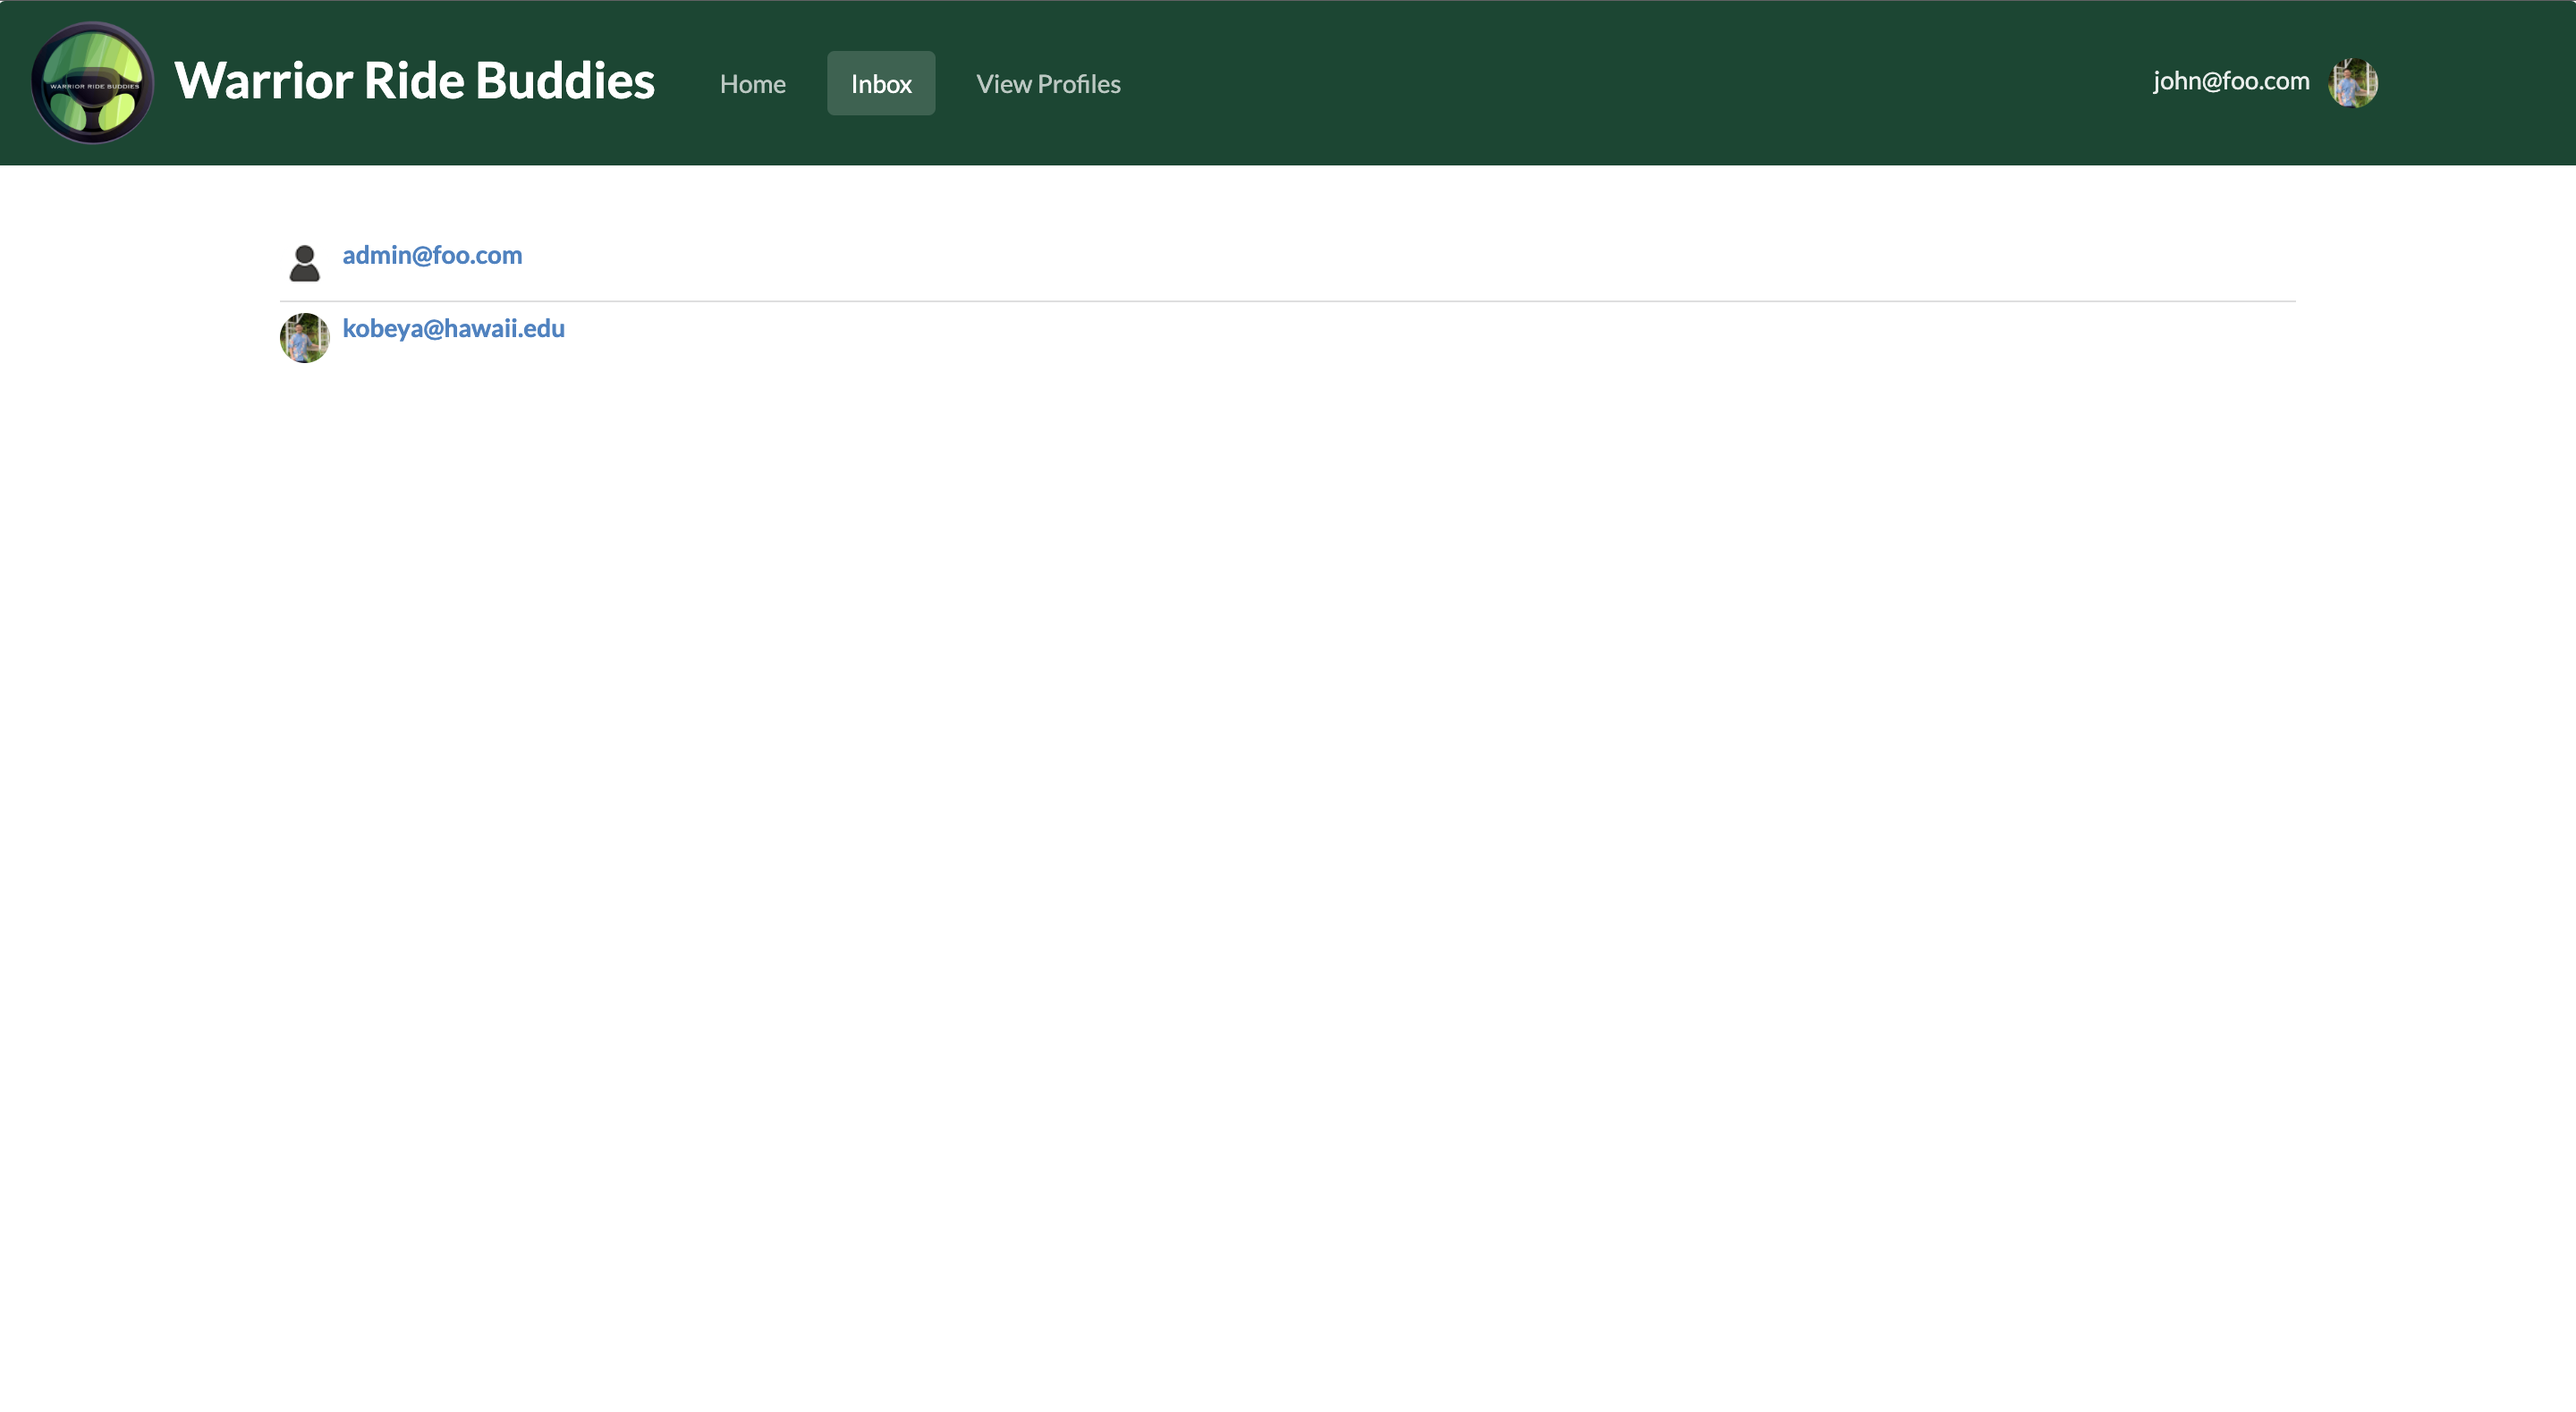
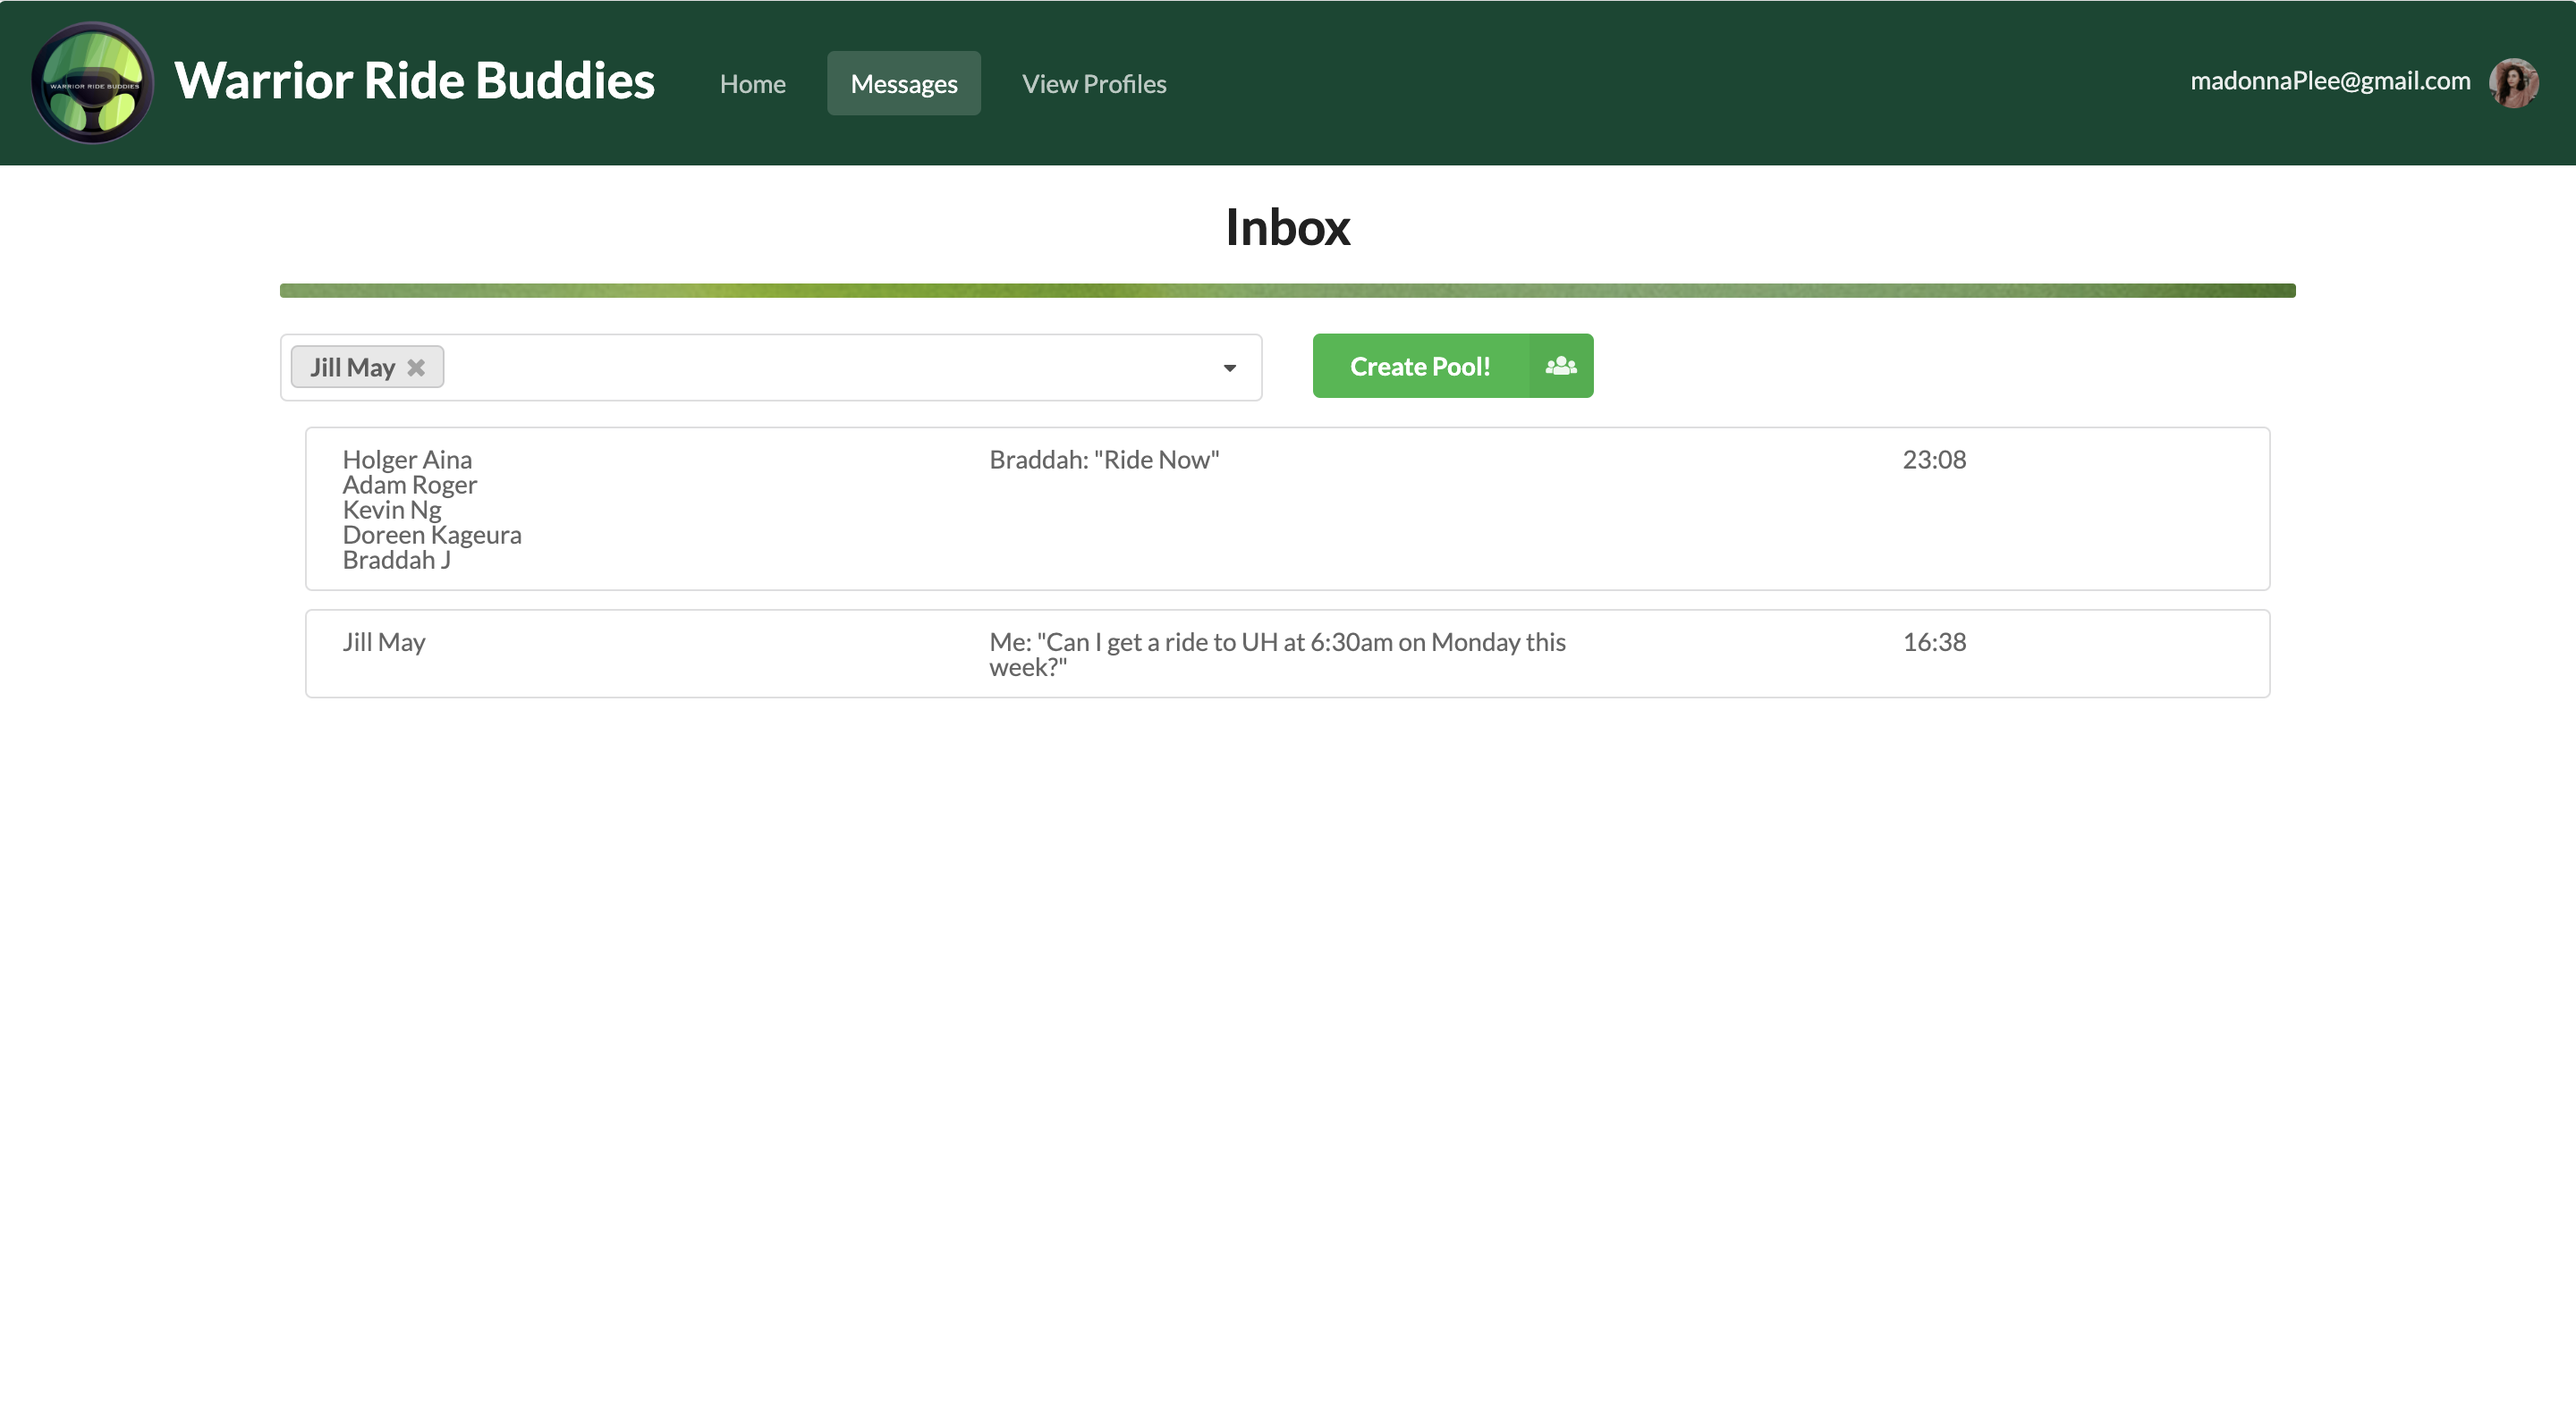
Add m3 pictures and summaries

diff --git a/index.md b/index.md
@@ -41,16 +41,27 @@ On the landing page, the user can gain more insight about how the application wo
 Using the filters on the left, users can search for other users (driver/riders) that are suitable for their schedule. Specifically, users can filter by time, day of the week, and driver/rider. Additionally, they can clear the filter by clicking on the bottom right erase icon.</p>
 
 <p><img src="images/MapPin.png">
-Clicking on users will reveal a modal that gives more information about the user. Eventually, users will be able to click on a button to message this user to carpool.</p>
+Clicking on users will reveal a modal that gives more information about the user. From here, users can click on the "message" button to message this user to carpool or press the red report button if needed.</p>
+
+<p><img src="images/Report.png">
+If a user is behaving inappropriately on the application, people can report them. Additionally, the reporter can include a message about why this person is being reported for the admin to read. 
+</p>
 
 <p><img src="images/InboxPage.png">
-Once riders or drivers discover people that they can carpool with, they can message people through the application. This page keeps track of users this user has messaged. </p>
+Once riders or drivers discover people that they can carpool with, they can message people through the application. This page keeps track of users this user has messaged. At the top there's a selector and "Create Pool!" button for users to create a conversation with one or more people in the application to arrange a car pool.</p>
 
 <p><img src="images/Messages.png">
-After clicking on a user on the inbox page, past messages are displayed on a modal.</p>
+After clicking on a user on the inbox page, past messages are displayed on a modal. The user can continue the conversation by sending messages through the input area at the bottom.</p>
 
 <p><img src="images/ProfilePage.png">
-Every user has a profile page that contains information about themselves that are pertinent to the application (i.e. Name, location, car information, and up-to-date schedule). To access it, users need to navigate to the right of the navbar and click their profile picture or email to open a dropdown and then click "view profile".</p>
+Every user has a profile page that contains information about themselves that are pertinent to the application (i.e. Name, location, car information, and up-to-date schedule). To access it, users need to navigate to the right of the navbar and click their profile picture or email to open a dropdown and then click "view profile". The user can edit his/her own schedule (aka trips) directly on this page. </p>
+
+<p><img src="images/Trip.png">
+This page allows new users to create new trips (to or from UHM) in their schedule for other users to see.</p>
+
+<p><img src="images/OtherProfilePage.png">
+When viewing another user's profile, pertinent information is shown (i.e. location, car info, schedule) and a button to message the user.
+</p>
 
 <p><img src="images/RegisterPage.png">
 This page allows new users to create an account for this application.</p>
@@ -65,7 +76,7 @@ If needed, users can edit information about themselves through this form. To acc
 This page allows users to view all of the profiles available in the application.</p>
 
 <p><img src="images/AdminPage.png">
-If anyone is reported, the report is displayed here for admin users to review and take action.</p>
+If anyone is reported, the report is displayed here for admin users to review and take action. Additionally, the admin can view conversations between the reportee and reporter to help reach a decision.</p>
 
 ## Development History
 ### Milestone #1:
@@ -162,7 +173,6 @@ Here is our [team contract](https://docs.google.com/document/d/1JwVIlZwdnLveOPWr
 
 ## Future ideas to implement
 * Deal with Unsolicited Interactions (Blocking, etc.)
-* Allow group chats
 * Convert Web app to React Native
 * Provided a recommended tip/gratuity
-* Allow users to go from UH to Home
+* Implement safety features
